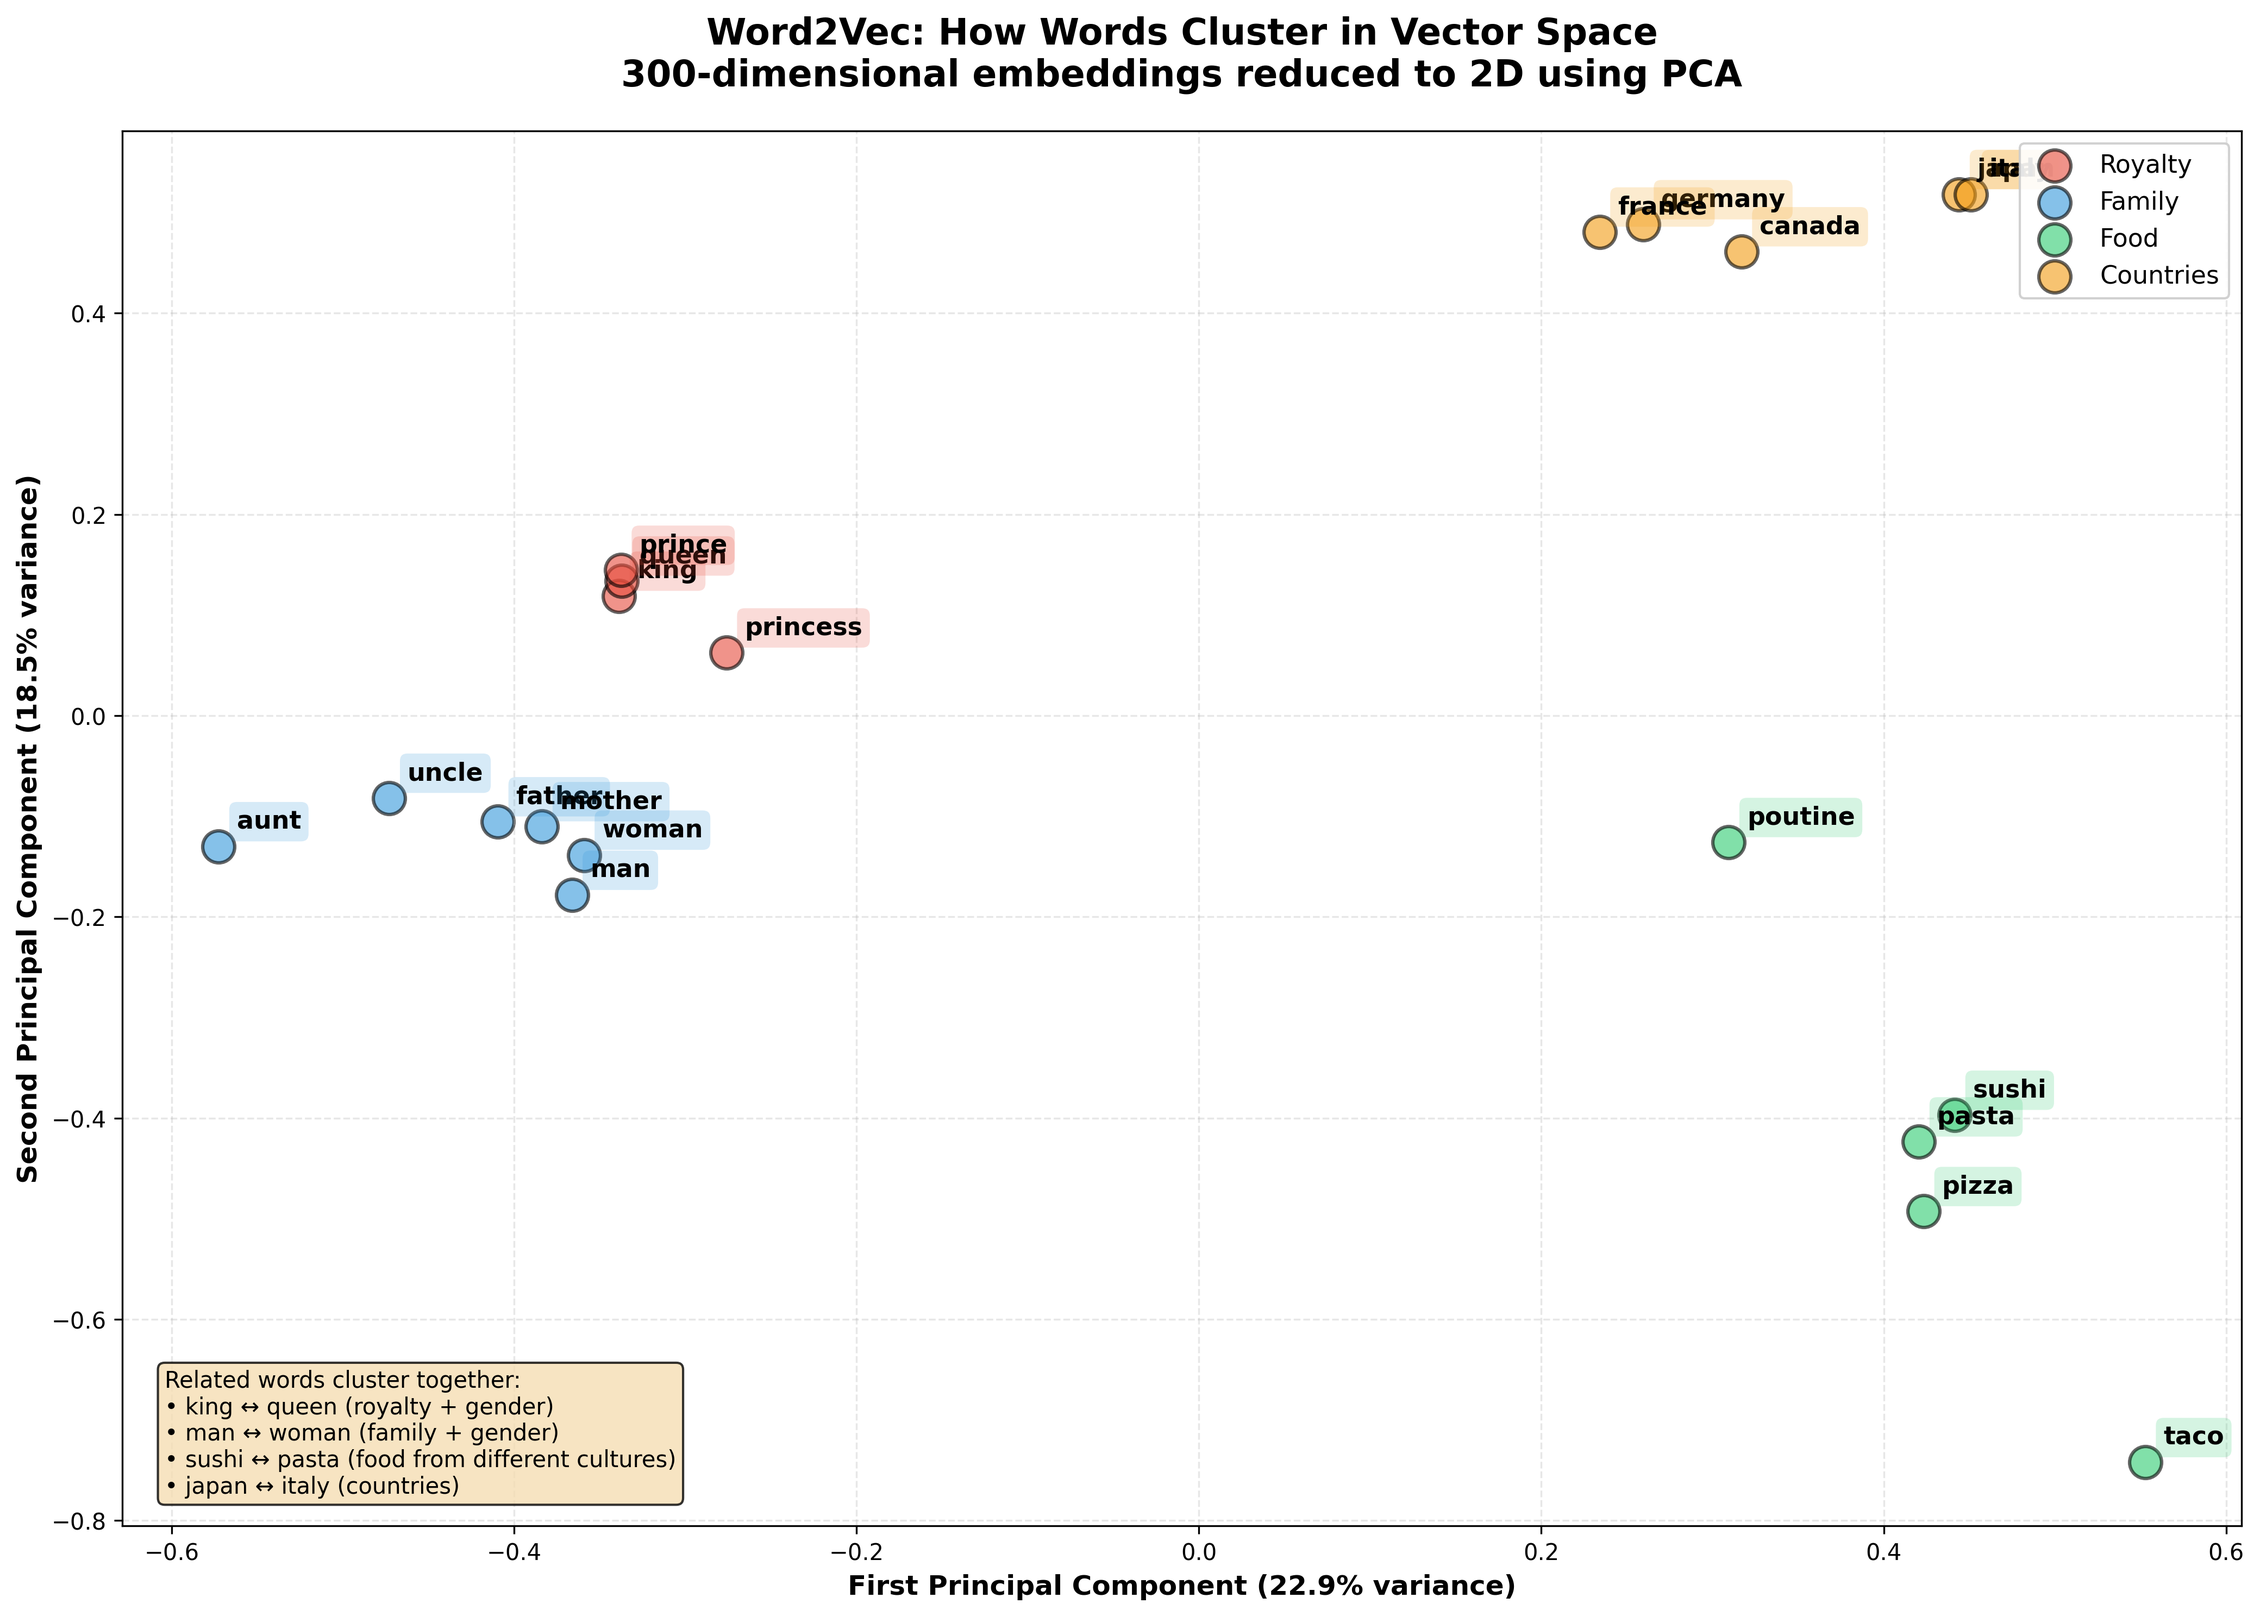
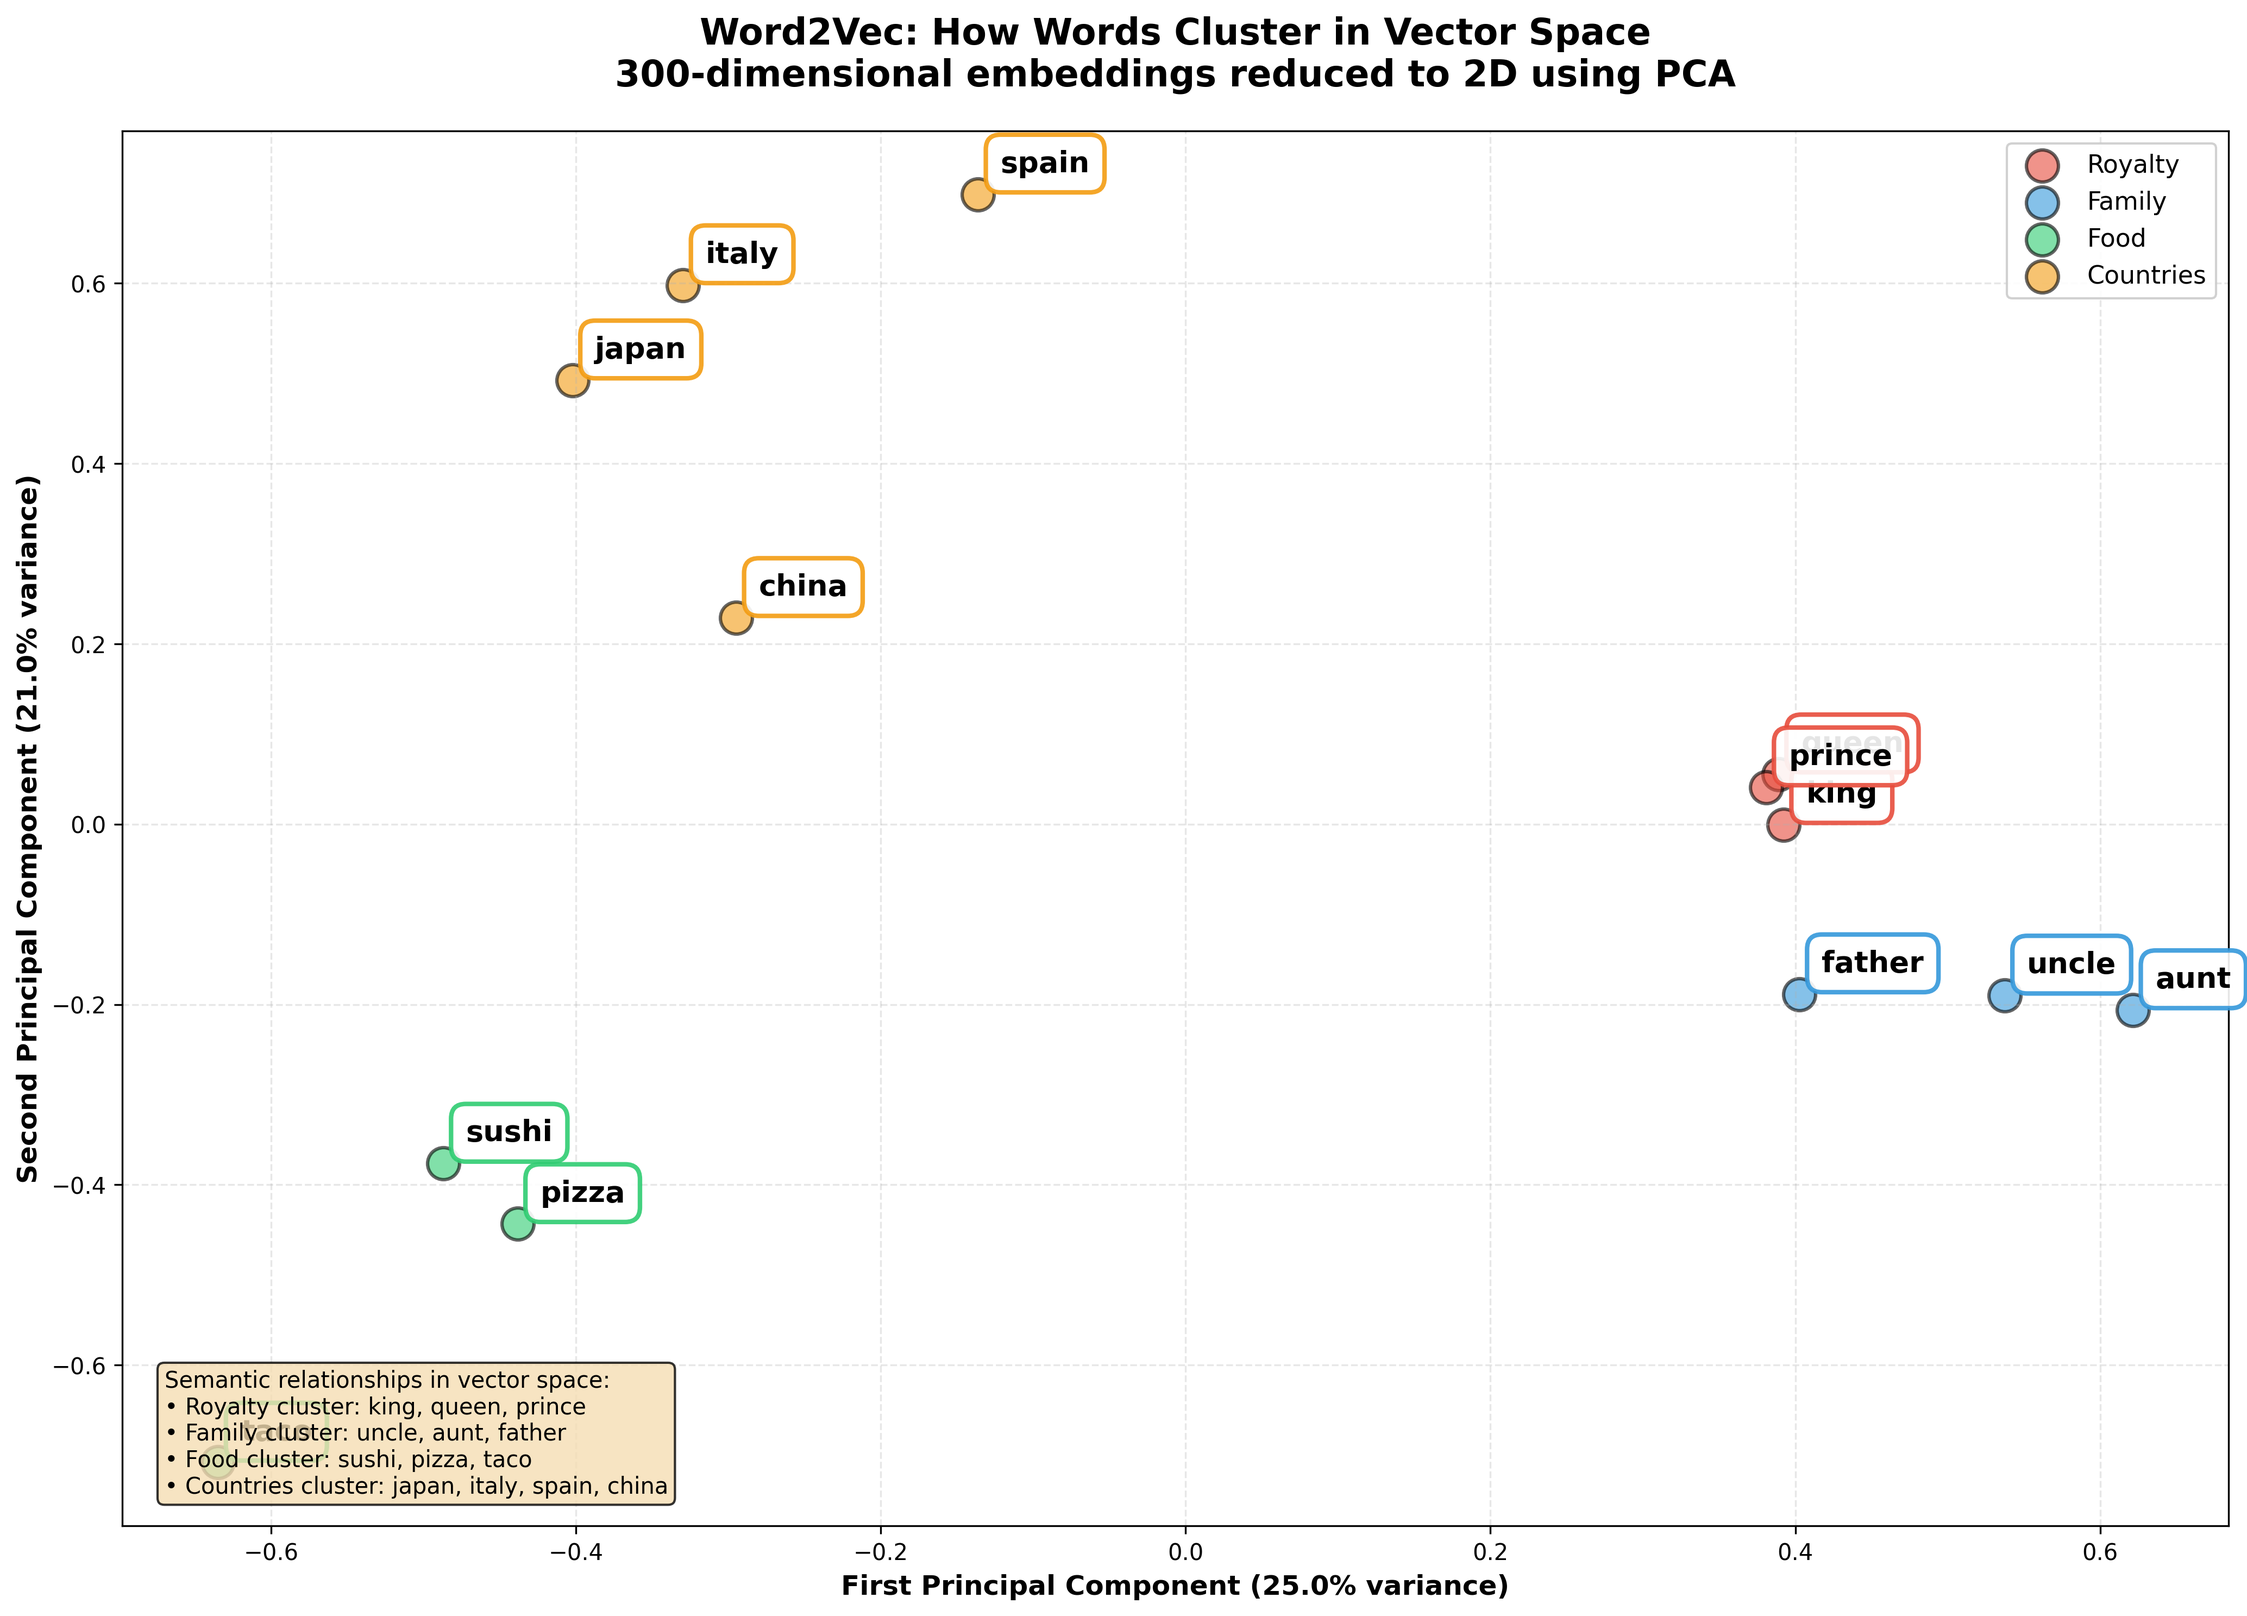
fix: improve visualization clarity - remove overlapping labels
Changes to visualization:
- Reduced words from 20 to 13 to avoid clustering/overlap
- Better word selection for clearer separation in 2D
- Improved label styling: white background with colored borders
- Larger font (13pt) and more padding for readability

Word groups now:
- Royalty: king, queen, prince (was 4 words)
- Family: uncle, aunt, father (was 6 words)
- Food: sushi, pizza, taco (was 5 words)
- Countries: japan, italy, spain, china (was 5 words)

Result: Much clearer visualization with no overlapping text!
Variance captured improved: 46.0% (was 41.4%)

diff --git a/examples/visualize_embeddings.py b/examples/visualize_embeddings.py
@@ -20,11 +20,12 @@ def visualize_word_relationships():
     model = api.load('fasttext-wiki-news-subwords-300')
 
     # Define word groups with semantic relationships
+    # Using fewer words to avoid overlap, selected for good separation
     word_groups = {
-        'Royalty': ['king', 'queen', 'prince', 'princess'],
-        'Family': ['man', 'woman', 'uncle', 'aunt', 'father', 'mother'],
-        'Food': ['sushi', 'pasta', 'pizza', 'poutine', 'taco'],
-        'Countries': ['japan', 'canada', 'italy', 'germany', 'france']
+        'Royalty': ['king', 'queen', 'prince'],
+        'Family': ['uncle', 'aunt', 'father'],
+        'Food': ['sushi', 'pizza', 'taco'],
+        'Countries': ['japan', 'italy', 'spain', 'china']
     }
 
     # Flatten all words and get their vectors
@@ -61,18 +62,19 @@ def visualize_word_relationships():
                   s=200, alpha=0.6, c=colors[group], label=group,
                   edgecolors='black', linewidth=1.5)
 
-    # Add word labels
+    # Add word labels with better positioning
     for i, word in enumerate(all_words):
         ax.annotate(word,
                    xy=(coords_2d[i, 0], coords_2d[i, 1]),
-                   xytext=(8, 8),
+                   xytext=(10, 10),
                    textcoords='offset points',
-                   fontsize=11,
+                   fontsize=13,
                    fontweight='bold',
-                   bbox=dict(boxstyle='round,pad=0.3',
-                            facecolor=colors[group_labels[i]],
-                            alpha=0.2,
-                            edgecolor='none'))
+                   bbox=dict(boxstyle='round,pad=0.5',
+                            facecolor='white',
+                            alpha=0.9,
+                            edgecolor=colors[group_labels[i]],
+                            linewidth=2))
 
     # Styling
     ax.set_title('Word2Vec: How Words Cluster in Vector Space\n' +
@@ -87,11 +89,11 @@ def visualize_word_relationships():
 
     # Add explanation text
     explanation = (
-        "Related words cluster together:\n"
-        "• king ↔ queen (royalty + gender)\n"
-        "• man ↔ woman (family + gender)\n"
-        "• sushi ↔ pasta (food from different cultures)\n"
-        "• japan ↔ italy (countries)"
+        "Semantic relationships in vector space:\n"
+        "• Royalty cluster: king, queen, prince\n"
+        "• Family cluster: uncle, aunt, father\n"
+        "• Food cluster: sushi, pizza, taco\n"
+        "• Countries cluster: japan, italy, spain, china"
     )
     ax.text(0.02, 0.02, explanation,
            transform=ax.transAxes,
